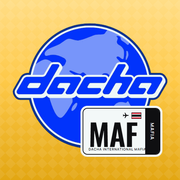
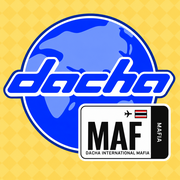
Новый логотип DACHA MAFIA с табличкой MAF и иконки приложения

diff --git a/index.html b/index.html
@@ -75,25 +75,12 @@ button { cursor: pointer; border: 0; background: none; padding: 0; }
 .col { display: flex; flex-direction: column; gap: 16px; }
 
 /* ---------- logo ---------- */
-.logo { position: relative; width: 100%; aspect-ratio: 501 / 433; container-type: inline-size; max-width: 100%; }
+.logo { position: relative; width: 100%; aspect-ratio: 1200 / 1028; container-type: inline-size; max-width: 100%; }
 .logo img { position: absolute; inset: 0; width: 100%; height: 100%; display: block; user-select: none; -webkit-user-drag: none; }
-.tix {
-  position: absolute; left: 43.9%; top: 61.9%; width: 52.9%; height: 38.1%;
-  background: var(--paper); border-radius: 4.4cqw; padding: 1.35cqw; box-sizing: border-box;
-}
-.tix-in {
-  height: 100%; box-sizing: border-box; border: .5cqw solid var(--ink); border-radius: 3.1cqw;
-  display: flex; overflow: hidden; background: var(--paper);
-}
-.tix-main { flex: 1; min-width: 0; display: flex; flex-direction: column; padding: 2.2cqw 2.4cqw 2cqw 3.4cqw; color: var(--ink); }
 .tix-top { display: flex; justify-content: flex-end; align-items: center; gap: 1.6cqw; height: 4.6cqw; }
 .tix-top svg { width: 4.4cqw; height: 4.4cqw; fill: var(--ink); }
 .flag { width: 6.4cqw; height: 4.2cqw; border: .25cqw solid var(--ink); box-sizing: border-box;
   background: linear-gradient(180deg, var(--red) 0 16.6%, #fff 0 33.3%, var(--ink) 0 66.6%, #fff 0 83.3%, var(--red) 0); }
-.tix-code { font: 600 19.5cqw/0.92 var(--f-code); letter-spacing: -.01em; margin-top: .4cqw; }
-.tix-sub { margin-top: auto; font: 600 2.15cqw/1 var(--f-body); letter-spacing: .12em; white-space: nowrap; }
-.tix-stub { width: 9.4cqw; background: var(--ink); color: var(--paper); display: grid; place-items: center; }
-.tix-stub span { writing-mode: vertical-rl; font: 600 3.1cqw/1 var(--f-body); letter-spacing: .14em; }
 
 .wordmark { width: 78%; margin: 3% auto 0; display: block; overflow: visible; }
 .wordmark text { font-family: var(--f-display); font-weight: 900; font-style: italic; letter-spacing: .02em; }
@@ -798,15 +785,7 @@ a.pill { text-decoration: none; box-sizing: border-box; }
 </main>
 
 <template id="logoTpl">
-  <img src="logo-dacha.png" alt="dacha" draggable="false">
-  <div class="tix" aria-hidden="true"><div class="tix-in">
-    <div class="tix-main">
-      <div class="tix-top"><svg viewBox="0 0 24 24"><path d="M21 16v-2l-8-5V3.5a1.5 1.5 0 0 0-3 0V9l-8 5v2l8-2.5V19l-2 1.5V22l3.5-1 3.5 1v-1.5L13 19v-5.5z" transform="rotate(90 12 12)"/></svg><span class="flag"></span></div>
-      <div class="tix-code">MAF</div>
-      <div class="tix-sub">DACHA INTERNATIONAL MAFIA</div>
-    </div>
-    <div class="tix-stub"><span>MAFIA</span></div>
-  </div></div>
+  <img src="logo-dacha.png" alt="DACHA MAFIA" draggable="false">
 </template>
 
 <script>
@@ -841,6 +820,7 @@ a.pill { text-decoration: none; box-sizing: border-box; }
     custom: '<circle cx="12" cy="12" r="8.5"/><path d="M9.6 9.4a2.5 2.5 0 0 1 4.9.7c0 1.7-2.5 2.1-2.5 3.6"/><path d="M12 16.9v.1"/>',
     user: '<circle cx="12" cy="8.5" r="3.8"/><path d="M4.5 20c1.2-3.6 4-5.4 7.5-5.4s6.3 1.8 7.5 5.4"/>',
   };
+  const PLANE = '<svg viewBox="0 0 24 24"><path d="M21 16v-2l-8-5V3.5a1.5 1.5 0 0 0-3 0V9l-8 5v2l8-2.5V19l-2 1.5V22l3.5-1 3.5 1v-1.5L13 19v-5.5z" transform="rotate(90 12 12)"/></svg>';
   const icon = (k) => `<svg viewBox="0 0 24 24" fill="none" stroke="currentColor" stroke-width="2.1" stroke-linecap="round" stroke-linejoin="round">${ICONS[k] || ICONS.custom}</svg>`;
 
   const TEAM = {
@@ -1392,7 +1372,7 @@ a.pill { text-decoration: none; box-sizing: border-box; }
     const custom = String(r.id).startsWith("c_");
     return `<div class="pass-in team-${r.team}">
       <div class="pass-main">
-        <div class="pass-head"><span>Dacha Mafia · посадочный</span><span class="tix-top">${$("logoTpl").content.querySelector(".tix-top svg").outerHTML}<span class="flag"></span></span></div>
+        <div class="pass-head"><span>Dacha Mafia · посадочный</span><span class="tix-top">${PLANE}<span class="flag"></span></span></div>
         <div class="pass-route"><div class="pass-code">${esc(r.code)}</div><div class="pass-icon team-${r.team}">${icon(custom ? "custom" : r.id)}</div></div>
         <div class="pass-name">${esc(r.name)}</div>
         <p class="pass-desc">${esc(r.desc)}</p>
